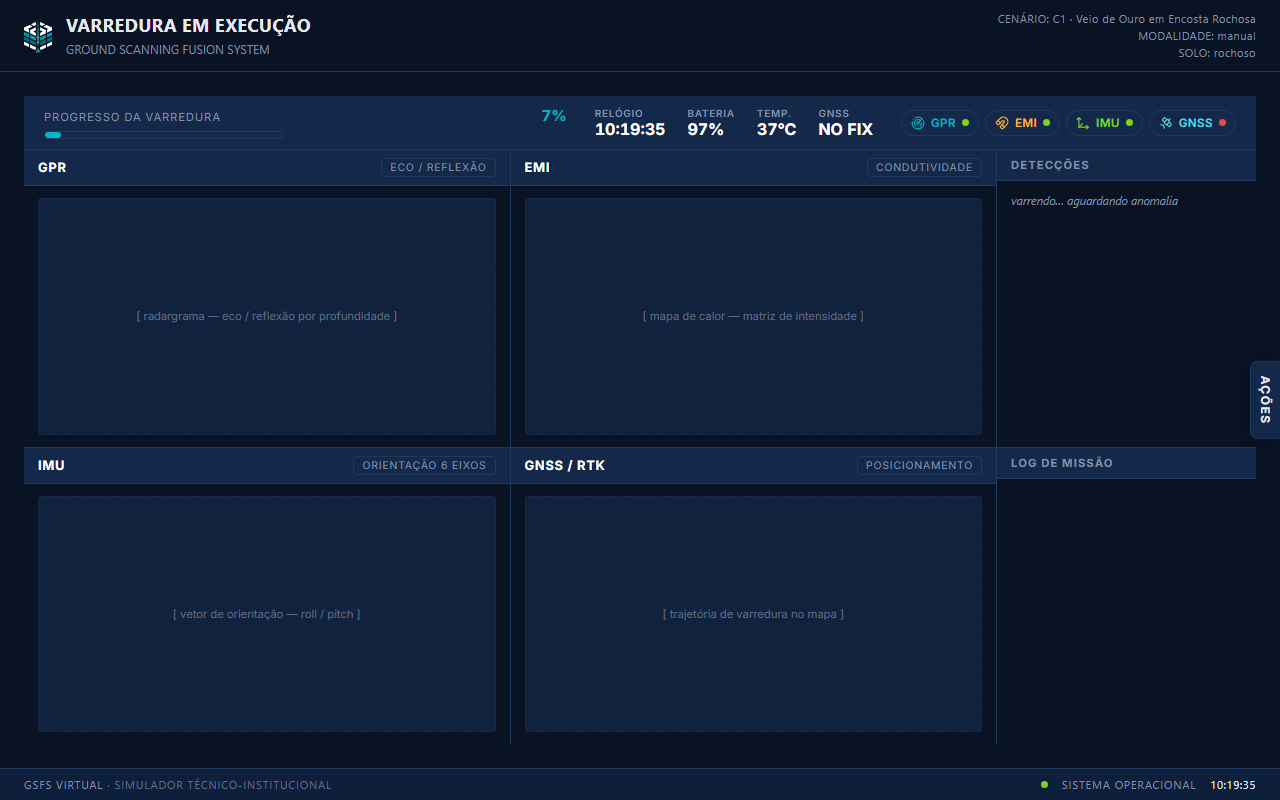
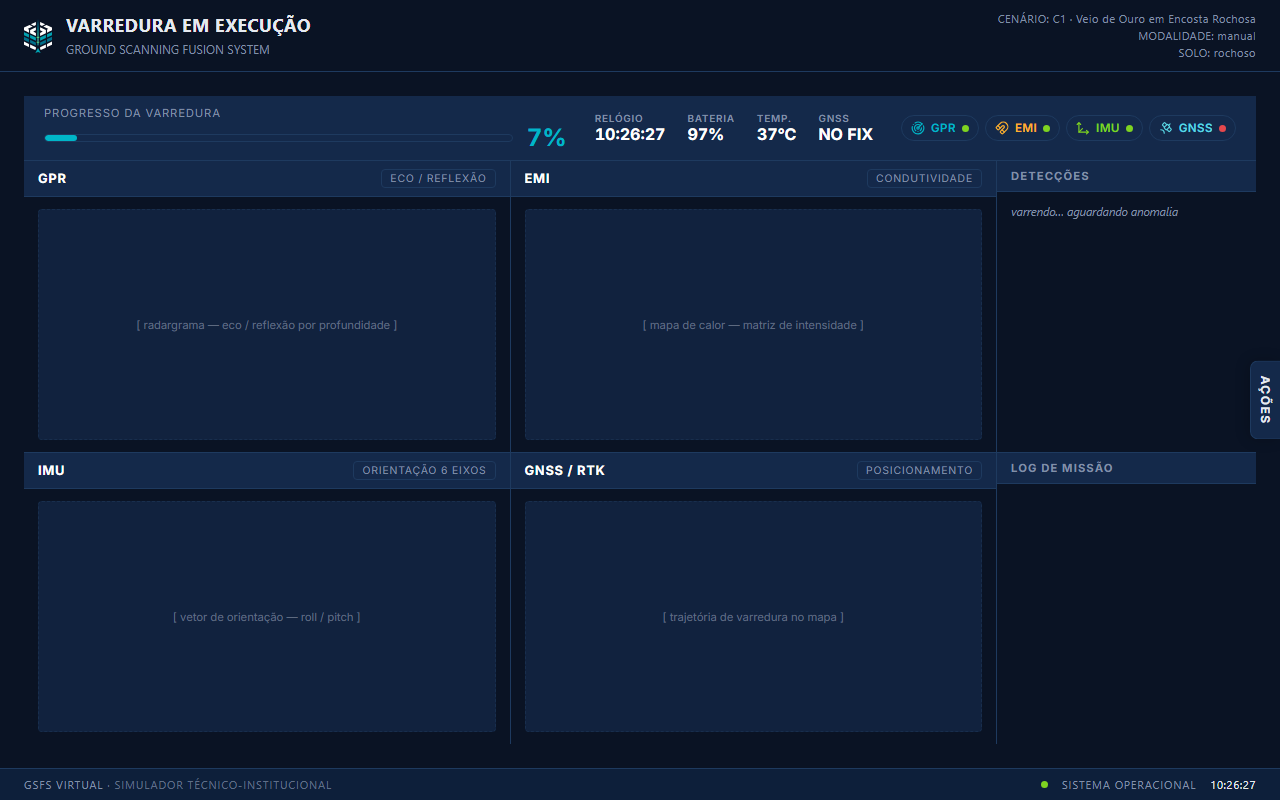
fix(e4): porcentagem maior ao lado da barra; barra encosta nas laterais
Reestrutura a primeira linha do HUD: rotulo em cima; barra de progresso
ocupa toda a largura disponivel (flex:1) e a % maior (1.5rem) fica ao
lado da barra, centralizada verticalmente, separada das demais metricas.

diff --git a/app/src/prototype/sim/ScanView.css b/app/src/prototype/sim/ScanView.css
@@ -2,10 +2,12 @@
 
 .sv-hud { display: flex; align-items: center; gap: 28px; padding: 10px 20px; background: var(--color-bg-raised); border-bottom: 1px solid var(--color-border); flex-shrink: 0; flex-wrap: wrap; }
 
-.sv-hud-progress { display: flex; flex-direction: column; gap: 6px; flex: 1 1 240px; min-width: 200px; }
-.sv-hud-progress-row { display: flex; justify-content: space-between; align-items: baseline; gap: 8px; }
+.sv-hud-progress { display: flex; flex-direction: column; gap: 6px; flex: 1 1 280px; min-width: 220px; }
 .sv-hud-progress-label { font-family: var(--font-secondary); font-size: 0.7rem; letter-spacing: 0.08em; text-transform: uppercase; color: var(--color-text-muted); }
-.sv-hud-progress-pct { font-family: var(--font-secondary); font-size: 0.95rem; font-weight: 700; color: var(--color-primary); font-variant-numeric: tabular-nums; }
+.sv-hud-progress-track { display: flex; align-items: center; gap: 14px; }
+/* barra ocupa toda a largura disponível (encosta nas laterais) */
+.sv-hud-progress-track .gsfs-progress { flex: 1; width: auto; }
+.sv-hud-progress-pct { font-family: var(--font-secondary); font-size: 1.5rem; line-height: 1; font-weight: 700; color: var(--color-primary); font-variant-numeric: tabular-nums; flex-shrink: 0; }
 
 .sv-hud-metrics { display: flex; gap: 22px; flex-wrap: wrap; flex-shrink: 0; }
 .sv-hud-sensors { display: flex; gap: 6px; flex-wrap: wrap; align-items: center; flex-shrink: 0; }

diff --git a/app/src/prototype/sim/ScanView.tsx b/app/src/prototype/sim/ScanView.tsx
@@ -68,11 +68,11 @@ export function ScanView({ state, banner, controls }: ScanViewProps) {
       {/* HUD */}
       <div className="sv-hud">
         <div className="sv-hud-progress">
-          <div className="sv-hud-progress-row">
-            <span className="sv-hud-progress-label">PROGRESSO DA VARREDURA</span>
+          <span className="sv-hud-progress-label">PROGRESSO DA VARREDURA</span>
+          <div className="sv-hud-progress-track">
+            <Progress value={state.progress} label="Progresso da varredura" />
             <strong className="sv-hud-progress-pct">{state.progress}%</strong>
           </div>
-          <Progress value={state.progress} label="Progresso da varredura" />
         </div>
         <div className="sv-hud-metrics">
           <HudMetric size="sm" label="Relógio" value={state.clock} />
